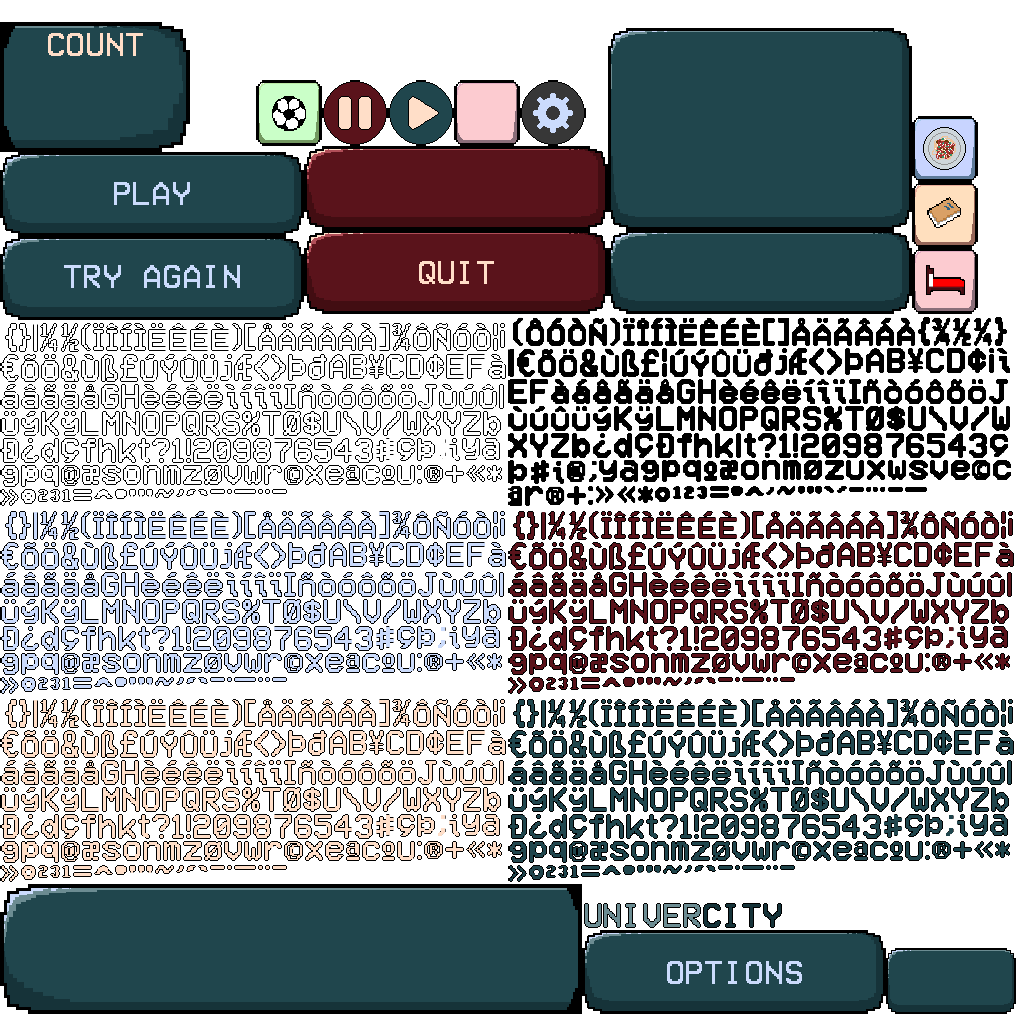
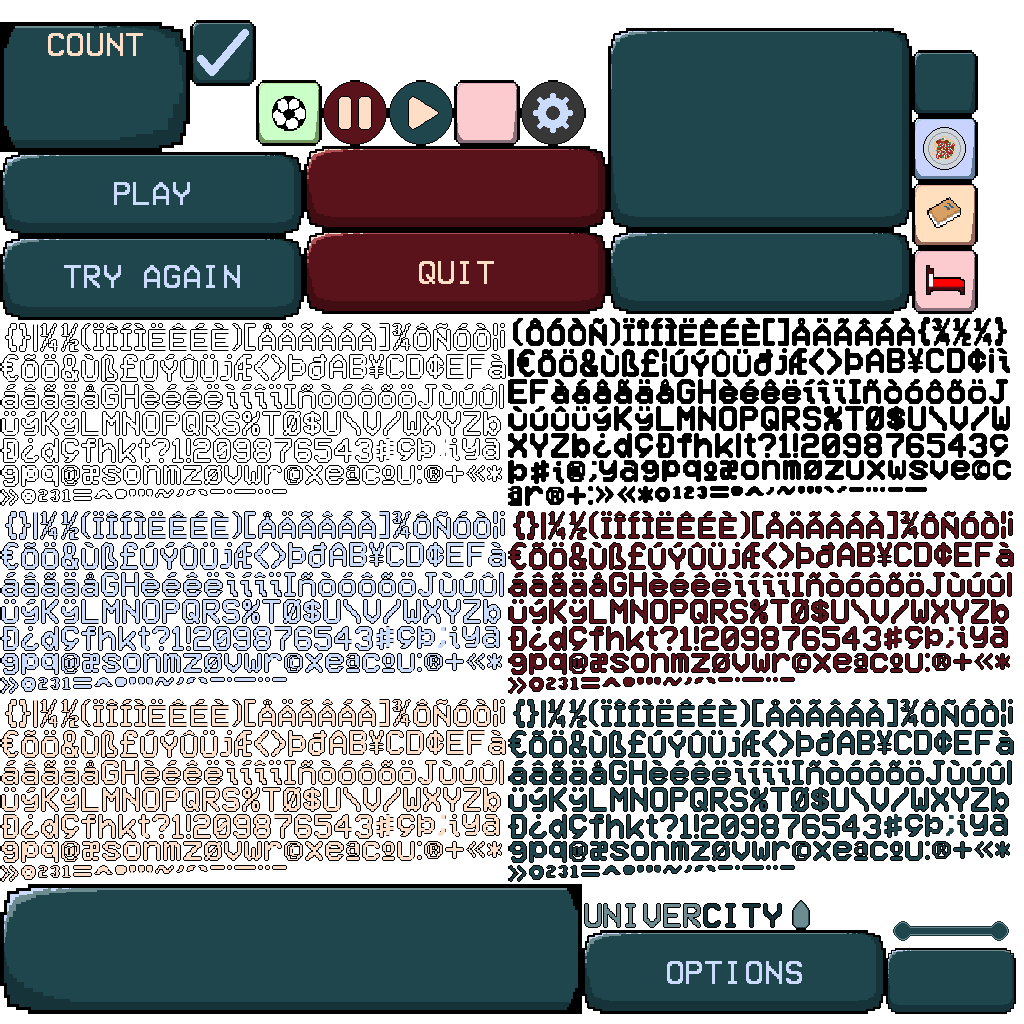
changed skins and updated settings screen

diff --git a/core/src/main/java/com/backlogged/univercity/SettingsScreen.java b/core/src/main/java/com/backlogged/univercity/SettingsScreen.java
@@ -30,12 +30,14 @@ public class SettingsScreen implements Screen {
   private Skin skin;
   private Stage stage;
   private Table table;
+  private Table buttonsTable;
   private Texture bgTexture;
   private ScrollPane scrollPane;
 
   private Label settingsLabel;
 
   private TextButton backButton;
+  private TextButton quitButton;
 
   private Label musicEnabledLabel;
   private CheckBox musicEnabledCheckBox;
@@ -84,27 +86,39 @@ public class SettingsScreen implements Screen {
    *                       settings
    */
   public SettingsScreen(Game game, Screen previousScreen) {
-    skin = new Skin(Gdx.files.internal(Constants.UI_SKIN_PATH));
+    skin = new Skin(Gdx.files.internal("uiskin.json"));
     stage = new Stage(new ScreenViewport());
     table = new Table(skin);
 
-    settingsLabel = new Label("Settings", skin, "game-title");
-    backButton = new TextButton("Back", skin, "blue-text-button");
+    settingsLabel = new Label("SETTINGS", skin, "redFont");
+    backButton = new TextButton("BACK", skin);
+    quitButton = new TextButton("QUIT", skin, "redTextButton");
     backButton.addListener(new ClickListener() {
       public void clicked(InputEvent e, float x, float y) {
         game.setScreen(previousScreen);
       }
     });
 
+    quitButton.addListener(new ClickListener() {
+      public void clicked(InputEvent e, float x, float y) {
+        Gdx.app.exit();
+      }
+    });
+    buttonsTable = new Table(skin);
+    buttonsTable.add(backButton).size(
+        Value.percentWidth(.3f, table), Value.percentHeight(.1f, table))
+        .padTop(20)
+        .padBottom(10);
+    buttonsTable.add(quitButton).size(
+        Value.percentWidth(.3f, table), Value.percentHeight(.1f, table))
+        .padTop(20)
+        .padBottom(10);
     table.add(settingsLabel).spaceBottom(20).padTop(10);
     table.row();
     createScrollPane();
     table.add(scrollPane).growX().bottom();
     table.row();
-    table.add(backButton).size(
-        Value.percentWidth(.3f, table), Value.percentHeight(.1f, table))
-        .padTop(20)
-        .padBottom(10);
+    table.add(buttonsTable);
     table.setFillParent(true);
     table.setDebug(true);
     stage.addActor(table);
@@ -119,7 +133,7 @@ public class SettingsScreen implements Screen {
   private void createScrollPane() {
     Table preferencesTable = new Table(skin);
     preferencesTable.setDebug(true);
-    musicEnabledLabel = new Label("Music Enabled", skin, "game-title");
+    musicEnabledLabel = new Label("MUSIC ENABLED", skin, "lightOrangeFont");
     musicEnabledCheckBox = new CheckBox("", skin);
     musicEnabledCheckBox.setChecked(GamePreferences.isMusicEnabled());
     musicEnabledCheckBox.addListener(
@@ -134,7 +148,7 @@ public class SettingsScreen implements Screen {
           }
         });
 
-    musicVolumeLabel = new Label("Music Volume", skin, "game-title");
+    musicVolumeLabel = new Label("MUSIC VOLUME", skin, "lightOrangeFont");
     musicVolumeSlider = new Slider(0, 1, 0.1f, false, skin);
     musicVolumeSlider.setValue(GamePreferences.getMusicVolume());
     musicVolumeSlider.addListener(new ChangeListener() {
@@ -144,7 +158,7 @@ public class SettingsScreen implements Screen {
       }
     });
 
-    soundEnabledLabel = new Label("Sound Enabled", skin, "game-title");
+    soundEnabledLabel = new Label("SOUND ENABLED", skin, "lightOrangeFont");
     soundEnabledCheckBox = new CheckBox("", skin);
     soundEnabledCheckBox.setChecked(GamePreferences.isSoundEnabled());
     soundEnabledCheckBox.addListener(new ClickListener() {
@@ -153,7 +167,7 @@ public class SettingsScreen implements Screen {
       }
     });
 
-    soundVolumeLabel = new Label("Sound Volume", skin, "game-title");
+    soundVolumeLabel = new Label("SOUND VOLUME", skin, "lightOrangeFont");
     soundVolumeSlider = new Slider(0, 1, 0.1f, false, skin);
     soundVolumeSlider.setValue(GamePreferences.getSoundVolume());
     soundVolumeSlider.addListener(new ChangeListener() {
@@ -162,7 +176,7 @@ public class SettingsScreen implements Screen {
       }
     });
 
-    fullScreenLabel = new Label("Fullscreen", skin, "game-title");
+    fullScreenLabel = new Label("FULLSCREEN", skin, "lightOrangeFont");
     fullScreenCheckBox = new CheckBox("", skin);
     fullScreenCheckBox.setChecked(GamePreferences.isFullscreen());
     fullScreenCheckBox.addListener(new ClickListener() {
@@ -176,7 +190,7 @@ public class SettingsScreen implements Screen {
       }
     });
 
-    mouseSensitivityLabel = new Label("Mouse Sensitivity", skin, "game-title");
+    mouseSensitivityLabel = new Label("MOUSE SENSITIVITY", skin, "lightOrangeFont");
     mouseSensitivitySlider = new Slider(0.1f, 2f, 0.1f, false, skin);
     mouseSensitivitySlider.setValue(GamePreferences.getMouseSensitivity());
     mouseSensitivitySlider.addListener(new ChangeListener() {
@@ -185,7 +199,7 @@ public class SettingsScreen implements Screen {
       }
     });
 
-    keyboardSensitivityLabel = new Label("Keyboard Sensitivity", skin, "game-title");
+    keyboardSensitivityLabel = new Label("KEYBOARD SENSITIVITY", skin, "lightOrangeFont");
     keyboardSensitivitySlider = new Slider(0.1f, 2f, 0.1f, false, skin);
     keyboardSensitivitySlider.setValue(GamePreferences.getKeyboardSensitivity());
     keyboardSensitivitySlider.addListener(new ChangeListener() {
@@ -194,9 +208,9 @@ public class SettingsScreen implements Screen {
       }
     });
 
-    keyboardBindingUpLabel = new Label("Up Key", skin, "game-title");
+    keyboardBindingUpLabel = new Label("UP KEY", skin, "lightOrangeFont");
     keyboardBindingUpButton = new TextButton(
-        Input.Keys.toString(GamePreferences.getKeyboardBindingUp()), skin, "key-button");
+        Input.Keys.toString(GamePreferences.getKeyboardBindingUp()), skin);
     keyboardBindingUpButton.addListener(
         new ClickListener() {
           public void clicked(InputEvent e, float x, float y) {
@@ -214,9 +228,9 @@ public class SettingsScreen implements Screen {
           }
         });
 
-    keyboardBindingDownLabel = new Label("Down Key", skin, "game-title");
+    keyboardBindingDownLabel = new Label("DOWN KEY", skin, "greenFont");
     keyboardBindingDownButton = new TextButton(
-        Input.Keys.toString(GamePreferences.getKeyboardBindingDown()), skin, "key-button");
+        Input.Keys.toString(GamePreferences.getKeyboardBindingDown()), skin);
     keyboardBindingDownButton.addListener(
         new ClickListener() {
           public void clicked(InputEvent e, float x, float y) {
@@ -234,9 +248,9 @@ public class SettingsScreen implements Screen {
           }
         });
 
-    keyboardBindingLeftLabel = new Label("Left Key", skin, "game-title");
+    keyboardBindingLeftLabel = new Label("LEFT KEY", skin, "greenFont");
     keyboardBindingLeftButton = new TextButton(
-        Input.Keys.toString(GamePreferences.getKeyboardBindingLeft()), skin, "key-button");
+        Input.Keys.toString(GamePreferences.getKeyboardBindingLeft()), skin);
     keyboardBindingLeftButton.addListener(
         new ClickListener() {
           public void clicked(InputEvent e, float x, float y) {
@@ -254,9 +268,9 @@ public class SettingsScreen implements Screen {
           }
         });
 
-    keyboardBindingRightLabel = new Label("Right Key", skin, "game-title");
+    keyboardBindingRightLabel = new Label("RIGHT KEY", skin, "greenFont");
     keyboardBindingRightButton = new TextButton(
-        Input.Keys.toString(GamePreferences.getKeyboardBindingRight()), skin, "key-button");
+        Input.Keys.toString(GamePreferences.getKeyboardBindingRight()), skin);
     keyboardBindingRightButton.addListener(
         new ClickListener() {
           public void clicked(InputEvent e, float x, float y) {
@@ -274,9 +288,9 @@ public class SettingsScreen implements Screen {
           }
         });
 
-    keyboardBindingZoomInLabel = new Label("Zoom In Key", skin, "game-title");
+    keyboardBindingZoomInLabel = new Label("ZOOM IN KEY", skin, "lightOrangeFont");
     keyboardBindingZoomInButton = new TextButton(
-        Input.Keys.toString(GamePreferences.getKeyboardBindingZoomIn()), skin, "key-button");
+        Input.Keys.toString(GamePreferences.getKeyboardBindingZoomIn()), skin);
     keyboardBindingZoomInButton.addListener(
         new ClickListener() {
           public void clicked(InputEvent e, float x, float y) {
@@ -295,9 +309,9 @@ public class SettingsScreen implements Screen {
           }
         });
 
-    keyboardBindingZoomOutLabel = new Label("Zoom Out Key", skin, "game-title");
+    keyboardBindingZoomOutLabel = new Label("ZOOM OUT KEY", skin, "lightOrangeFont");
     keyboardBindingZoomOutButton = new TextButton(
-        Input.Keys.toString(GamePreferences.getKeyboardBindingZoomOut()), skin, "key-button");
+        Input.Keys.toString(GamePreferences.getKeyboardBindingZoomOut()), skin);
     keyboardBindingZoomOutButton.addListener(
         new ClickListener() {
           public void clicked(InputEvent e, float x, float y) {
@@ -321,25 +335,33 @@ public class SettingsScreen implements Screen {
     preferencesTable.row();
     preferencesTable.add(musicVolumeLabel).space(20);
     preferencesTable.add(musicVolumeSlider)
-        .width(Value.percentWidth(.3f, preferencesTable)).space(20);
+        .width(Value.percentWidth(.3f, preferencesTable))
+        .fill()
+        .space(20);
     preferencesTable.row();
     preferencesTable.add(soundEnabledLabel).space(20);
     preferencesTable.add(soundEnabledCheckBox).space(20);
     preferencesTable.row();
     preferencesTable.add(soundVolumeLabel).space(20);
     preferencesTable.add(soundVolumeSlider)
-        .width(Value.percentWidth(.3f, preferencesTable)).space(20);
+        .width(Value.percentWidth(.3f, preferencesTable))
+        .fill()
+        .space(20);
     preferencesTable.row();
     preferencesTable.add(fullScreenLabel).space(20);
     preferencesTable.add(fullScreenCheckBox).space(20);
     preferencesTable.row();
     preferencesTable.add(mouseSensitivityLabel).space(20);
     preferencesTable.add(mouseSensitivitySlider)
-        .width(Value.percentWidth(.3f, preferencesTable)).space(20);
+        .width(Value.percentWidth(.3f, preferencesTable))
+        .fill()
+        .space(20);
     preferencesTable.row();
     preferencesTable.add(keyboardSensitivityLabel).space(20);
     preferencesTable.add(keyboardSensitivitySlider)
-        .width(Value.percentWidth(.3f, preferencesTable)).space(20);
+        .width(Value.percentWidth(.3f, preferencesTable))
+        .fill()
+        .space(20);
     preferencesTable.row();
     preferencesTable.add(keyboardBindingUpLabel).space(20);
     preferencesTable.add(keyboardBindingUpButton).space(20).width(150f).height(60f);
@@ -439,6 +461,8 @@ public class SettingsScreen implements Screen {
     }
     stage.getViewport().update(width, height, true);
     backButton.getStyle().font.getData()
+        .setScale(width / Constants.TEXT_BUTTON_FONT_SCALING_FACTOR);
+    quitButton.getStyle().font.getData()
         .setScale(width / Constants.TEXT_BUTTON_FONT_SCALING_FACTOR);
     settingsLabel.setFontScale(width / Constants.SETTINGS_TITLE_FONT_SCALING_FACTOR);
     musicEnabledLabel.setFontScale(width / Constants.SETTINGS_LABEL_FONT_SCALING_FACTOR);

diff --git a/core/src/main/java/com/backlogged/univercity/Constants.java b/core/src/main/java/com/backlogged/univercity/Constants.java
@@ -39,7 +39,7 @@ public final class Constants {
   /**
    * Font scaling factor for the labels in the settings screen.
    */
-  public static final float SETTINGS_LABEL_FONT_SCALING_FACTOR = 4000f;
+  public static final float SETTINGS_LABEL_FONT_SCALING_FACTOR = 2000f;
 
   /**
    * Path to the background picture.
@@ -49,7 +49,7 @@ public final class Constants {
   /**
    * Path to the UI skin.
    */
-  public static final String UI_SKIN_PATH = "testskin.json";
+  public static final String UI_SKIN_PATH = "uiskin.json";
 
   /**
    * Path to the preferences file.
@@ -73,7 +73,7 @@ public final class Constants {
   /**
    * Path to the game soundtrack.
    */
-  public static final String SOUNDTRACK_PATH = "awesomeness.wav";
+  public static final String SOUNDTRACK_PATH = "backgroundsong.wav";
 
   /**
    * Path to the game over sound.
